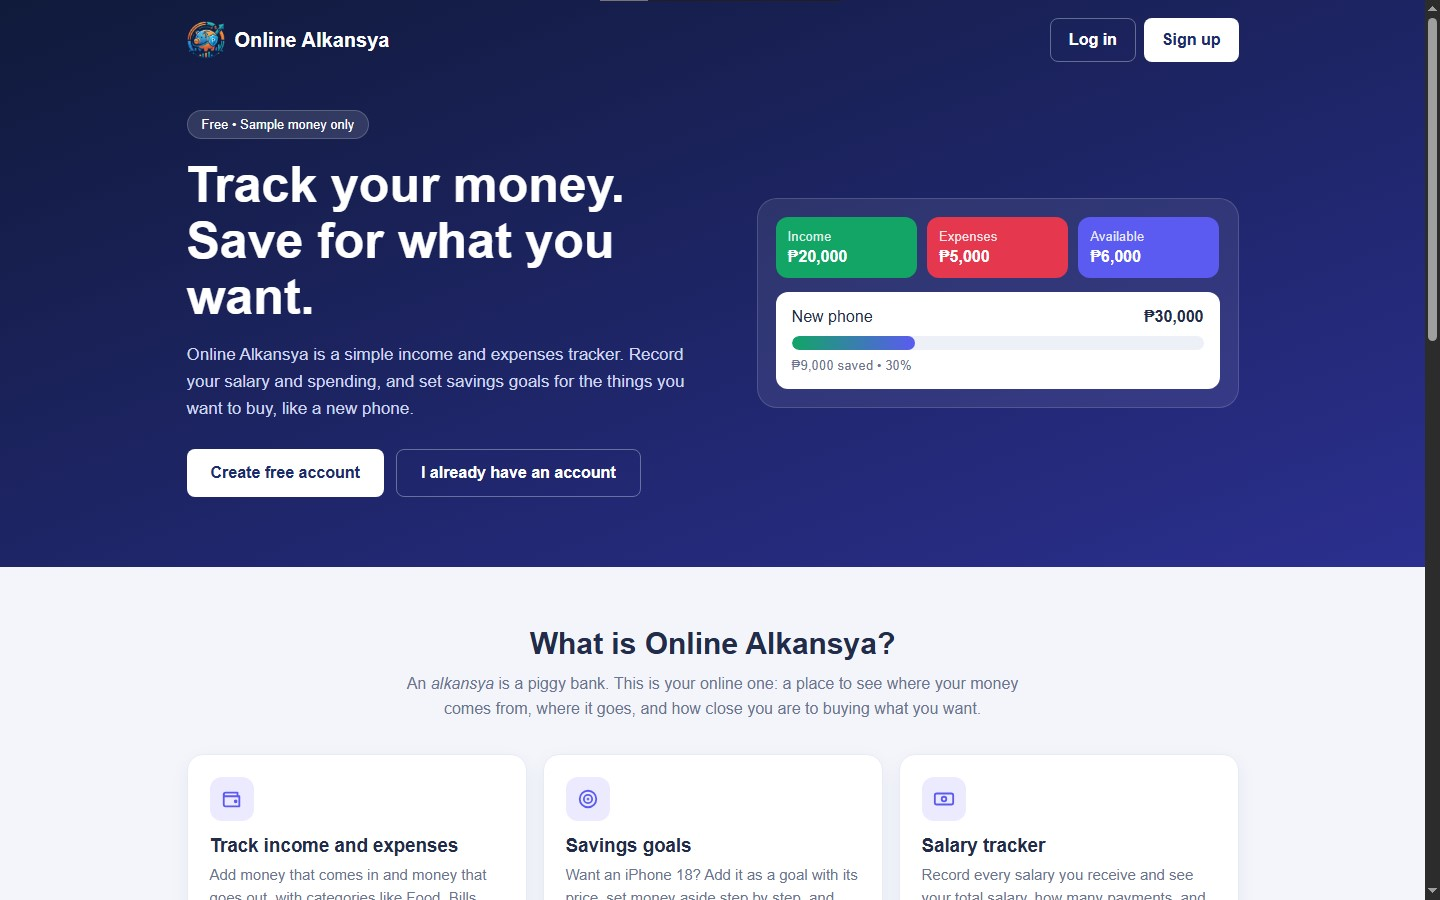
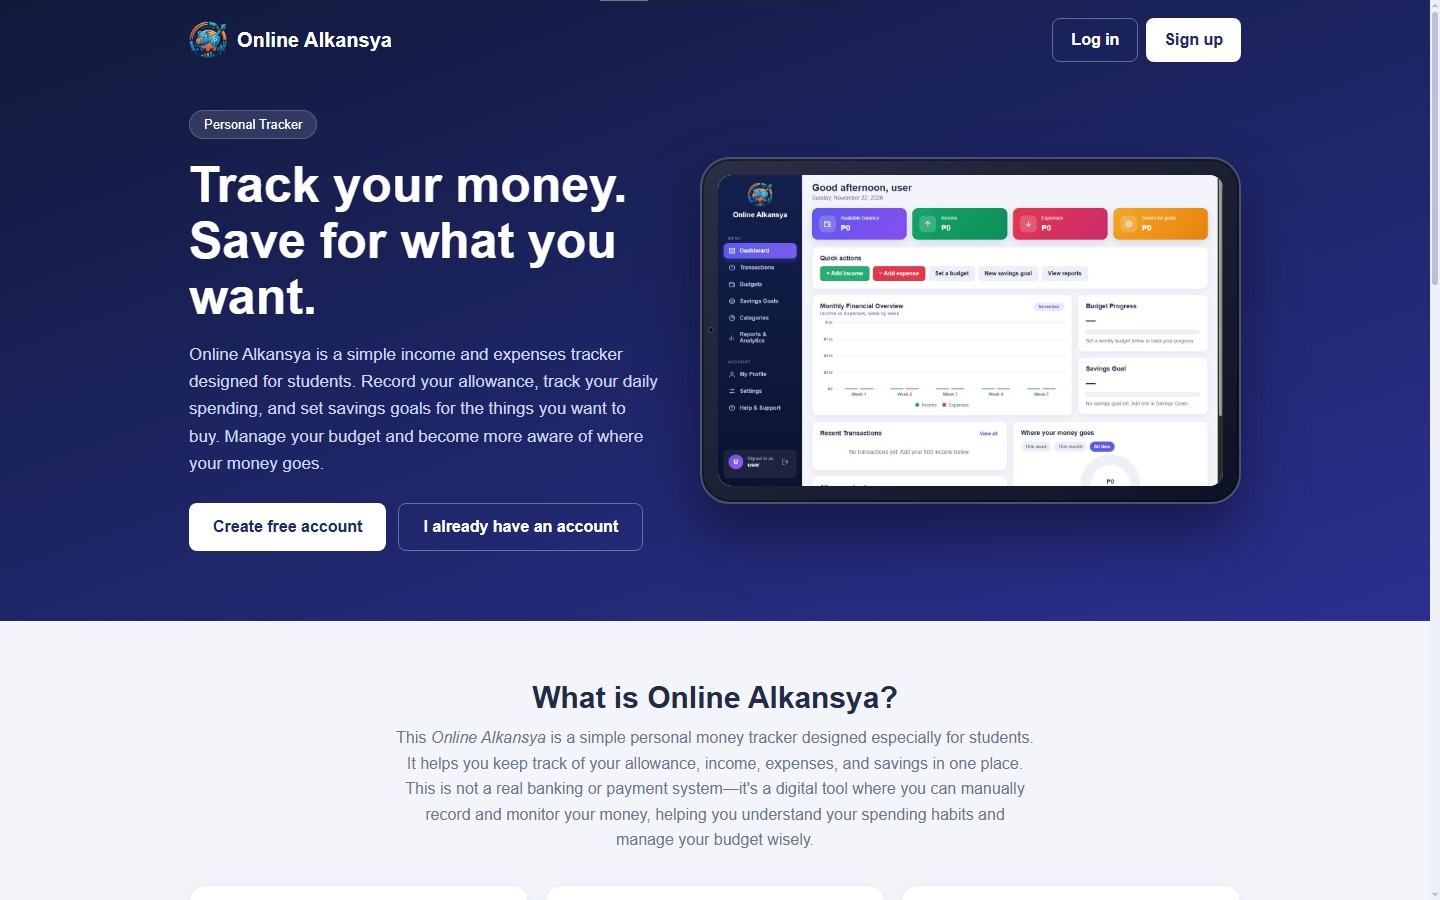
Update Project

diff --git a/project.html b/project.html
@@ -81,8 +81,9 @@
       <article class="card">
         <div class="thumb slider" data-slider>
           <div class="slides" tabindex="0" aria-label="Project pictures">
-             <img src="images-project/OnlineAlkansya.jpg" alt="Income & Expenses Tracker screenshot ">
+            <img src="images-project/OnlineAlkansya.jpg" alt="Income & Expenses Tracker screenshot ">
             <img src="images-project/OnlineAlkansya1.jpg" alt="Income & Expenses Tracker screenshot 1">
+            <img src="images-project/OnlineAlkansya1.1.jpg" alt="Income & Expenses Tracker screenshot 1.1">
             <img src="images-project/OnlineAlkansya2.jpg" alt="Income & Expenses Tracker screenshot 2">
            
           </div>
